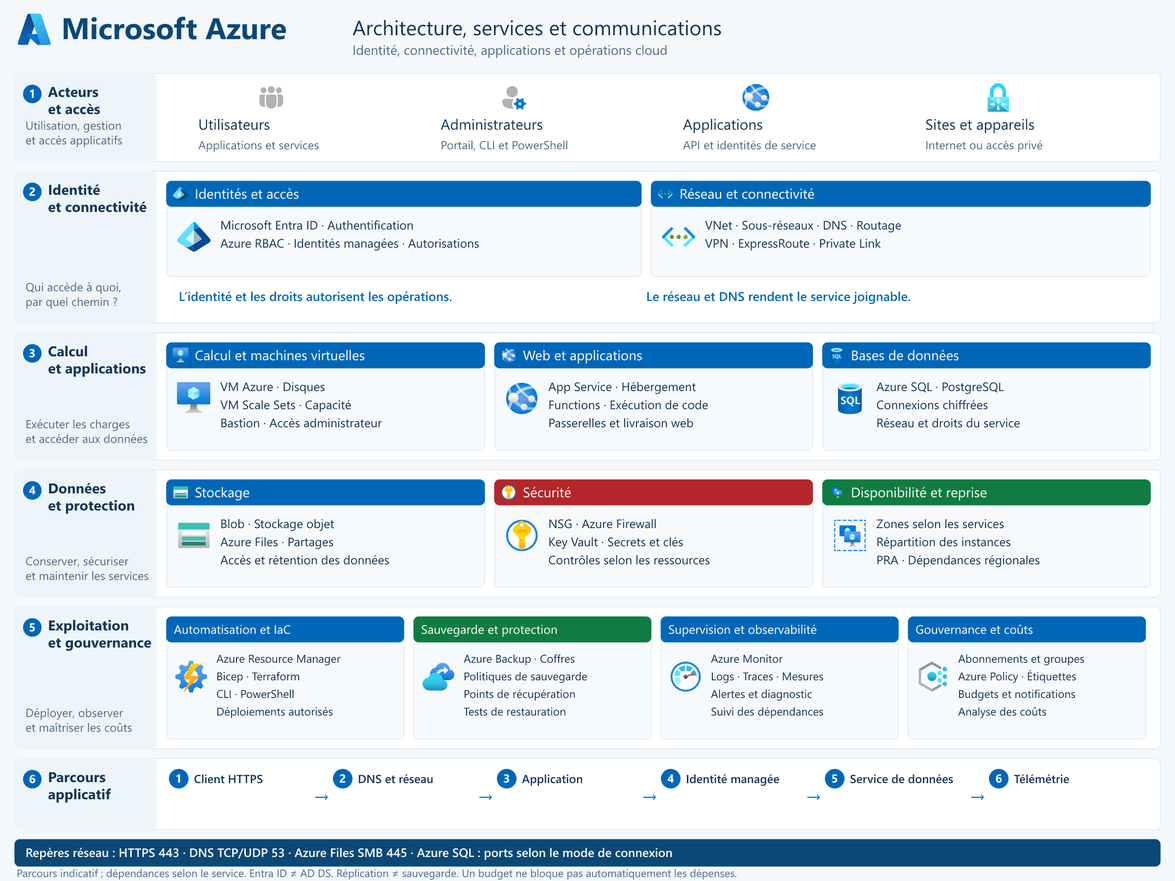
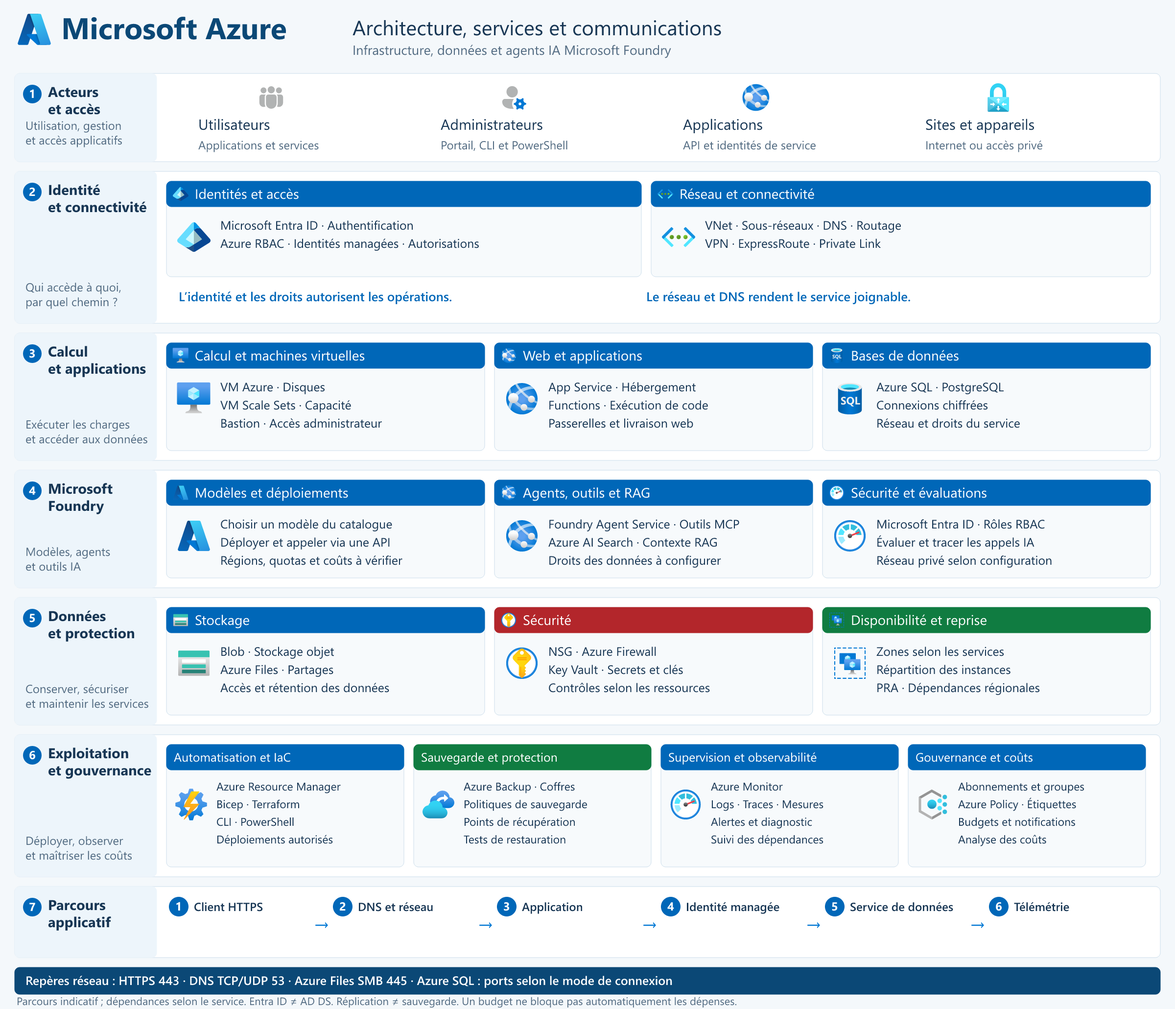
feat(azure): integrate Microsoft Foundry into guides and infographic

diff --git a/src/data/azure.js b/src/data/azure.js
@@ -114,7 +114,7 @@ const branches = [
       'Responsabilité : une recommandation ou une alerte nécessite une analyse et une action adaptée.',
     ],api),
   ]),
-  b('applications-cloud','Web & applications','web','App Service · Functions · Livraison','Publier des applications et choisir leur point d’entrée.', 'Un navigateur contacte Application Gateway en HTTPS ; la passerelle relaie la requête vers une application autorisée.',[
+  b('applications-cloud','Applications & IA','web','App Service · Functions · Foundry','Héberger des applications et construire des agents IA avec les services adaptés.', 'Une application appelle un agent Microsoft Foundry ; son identité et ses outils déterminent les données accessibles.',[
     t('Azure App Service','Plateforme d’hébergement web gérant une partie de l’infrastructure.',[
       'Déploiement : le code ou l’image est publié sur un environnement compatible.',
       'Configuration : paramètres, identité et secrets doivent être gérés séparément du code.',
@@ -135,8 +135,13 @@ const branches = [
       'Sonde : elle vérifie un état choisi pour déterminer les cibles utilisables.',
       'Distinction : le service ne route pas les URL et n’assure pas à lui seul une terminaison TLS.',
     ],[['TCP / UDP','Ports configurés par règle','Le port des sondes est aussi à définir selon le service.']]),
+    t('Microsoft Foundry','Plateforme Azure pour développer, déployer et gérer des applications et agents IA.',[
+      'Projet : il réunit les modèles déployés, agents et outils avec des accès définis par Microsoft Entra ID et RBAC.',
+      'Agent : le service managé associe un modèle, des instructions et des outils, dont des serveurs MCP autorisés.',
+      'Exploitation : évaluer la qualité, tracer les appels et suivre les coûts ; vérifier les régions et fonctionnalités en préversion.',
+    ],[['API de modèles et d’agents','HTTPS TCP 443','Endpoint du déploiement ou du projet ; identité, rôles et quotas restent nécessaires.'],['Outils et données','Selon le service cible','Les accès réseau et permissions des outils sont distincts de ceux du modèle ; le réseau privé dépend de la configuration.']]),
   ]),
-  b('donnees-cloud','Bases de données','storage','Azure SQL · PostgreSQL · Connexions','Accéder aux données en tenant compte du réseau et des identités.', 'Une application autorisée ouvre une connexion chiffrée à Azure SQL via le chemin réseau prévu.',[
+  b('donnees-cloud','Données & recherche','storage','SQL · PostgreSQL · Azure AI Search','Accéder aux données et rechercher du contenu avec les droits nécessaires.', 'Une application interroge Azure SQL ; un agent peut retrouver des extraits documentaires avec Azure AI Search.',[
     t('Azure SQL Database','Base relationnelle gérée dont les modalités de connexion sont configurables.',[
       'Service : l’application utilise le nom du serveur logique et une base accessible.',
       'Connexion : le mode Proxy ou Redirect change le chemin et les ports après le premier contact.',
@@ -157,6 +162,11 @@ const branches = [
       'Limites : la taille du pool doit correspondre à la charge et aux capacités de la base.',
       'Résilience : temporisation et tentatives doivent éviter les doublons d’opérations non idempotentes.',
     ],[['Transport du pilote','Selon moteur de base','Le pool est un mécanisme client sans port supplémentaire.']]),
+    t('Azure AI Search','Service de recherche qui peut fournir du contexte documentaire aux applications et agents Foundry.',[
+      'Recherche : des requêtes textuelles, vectorielles ou hybrides retrouvent du contenu pertinent dans les sources préparées.',
+      'RAG : les extraits récupérés complètent la demande au modèle ; cette récupération ne réentraîne pas le modèle.',
+      'Accès : l’indexation, les autorisations et la fraîcheur des données restent à configurer selon le scénario retenu.',
+    ],[['API de recherche et d’indexation','HTTPS TCP 443','Endpoint Azure AI Search autorisé ; les accès aux sources de données possèdent leurs propres exigences.']]),
   ]),
   b('disponibilite-cloud','Disponibilité & reprise','availability','Zones · Répartition · PRA','Prévoir les domaines de panne et les dépendances.', 'Une application possède plusieurs instances réparties sur des zones compatibles et un plan distinct de reprise régionale.',[
     t('Zones de disponibilité','Domaines d’infrastructure séparés dans les régions et services compatibles.',[
@@ -299,11 +309,14 @@ const edges = [
   f('costs','gouvernance-cloud','calcul','Encadrer le dimensionnement','Lien logique · budget et choix de capacité','Le suivi financier aide à décider ; un budget ne désalloue pas automatiquement les VM.','logical'),
   f('storage-rbac','identites','stockage-cloud','Autoriser l’accès aux données','Lien logique · rôle de données / jeton','Les permissions sont évaluées sur les requêtes de stockage ; l’attribution du rôle n’est pas un transfert de fichiers.','logical'),
   f('vault-identity','identites','securite-cloud','Autoriser les lectures de secrets','Lien logique · identité et permissions Key Vault','Un jeton valide doit être associé aux permissions nécessaires pour les objets ; il ne suffit pas de connaître l’URL du coffre.','logical'),
+  f('foundry-call','clients','applications-cloud','Appeler un agent Foundry','HTTPS · TCP 443','Une application authentifiée utilise l’endpoint du projet ou du déploiement Foundry ; le modèle, les rôles et les quotas doivent être configurés.'),
+  f('foundry-search','applications-cloud','donnees-cloud','Retrouver le contexte documentaire','API Azure AI Search · HTTPS TCP 443','L’application ou l’outil de l’agent interroge une recherche autorisée ; les résultats alimentent le contexte RAG, sans donner accès à toutes les données.'),
+  f('foundry-traces','applications-cloud','supervision-cloud','Observer les appels IA','Télémétrie · HTTPS TCP 443 selon intégration','Les traces et évaluations Foundry peuvent être corrélées avec Application Insights ; protéger les entrées et sorties sensibles collectées.'),
 ];
 
 export const azureEcosystem = createEcosystem({
   slug:'azure',title:'Azure',icon:'cloud',accent:'#0078d4',hubTitle:['Microsoft','Azure'],clientLabel:'Utilisateurs · Applications',
-  intro:'Du jeton d’identité aux données : explorez les échanges entre les services de votre environnement Azure.',
+  intro:'Du jeton d’identité aux applications et agents IA Microsoft Foundry : explorez les échanges entre les services Azure.',
   overview:'Douze domaines Azure : distinguez les flux de données, les appels de gestion et les dépendances logiques.',
   ringLabel:'IDENTITÉ · RÉSEAU · DONNÉES · GOUVERNANCE',subtitle:'LE SOCLE DE VOTRE ENVIRONNEMENT CLOUD',
   note:'Les capacités et chemins réseau dépendent des régions, des offres, des plans et des paramètres des ressources.',branches,edges,
@@ -313,6 +326,7 @@ export const azureEcosystem = createEcosystem({
     {id:'deployment',label:'Déployer une VM',description:'Accès au plan de gestion puis création des ressources autorisées.',edges:['login','deploy','vm-create','network-create','rbac','policy','nsg'],steps:[['login','Authentifier l’opérateur ou la chaîne de déploiement.'],['deploy','Envoyer la demande au plan de gestion ARM.'],['policy','Évaluer les règles applicables au déploiement.'],['network-create','Définir les ressources réseau nécessaires.'],['vm-create','Créer les ressources de calcul compatibles.']]},
     {id:'private',label:'Accès privé',description:'Exemples d’administration et d’accès aux données sur des chemins contrôlés.',independent:true,edges:['dns','bastion-entry','files','private-path','sql','nsg'],steps:[['dns','Vérifier que les noms résolvent vers le chemin voulu.'],['bastion-entry','Administrer la VM via Bastion si ce service est choisi.'],['files','Monter un partage compatible depuis une VM autorisée.'],['private-path','Prévoir les endpoints privés compatibles pour les données.']]},
     {id:'operations',label:'Exploitation & reprise',description:'Protection, collecte et disponibilité sont des fonctions complémentaires.',independent:true,edges:['zones','delivery','protect','backup-transfer','recovery','vm-metrics','app-traces','alert','costs'],steps:[['zones','Distribuer les instances selon les domaines de panne.'],['protect','Affecter une politique de protection adaptée.'],['backup-transfer','Conserver les données avec le mécanisme prévu.'],['vm-metrics','Envoyer les mesures des machines.'],['app-traces','Corréler les traces avec l’état des ressources.'],['alert','Déclencher une action seulement si elle est configurée.']]},
+    {id:'foundry',label:'Agent IA & Foundry',description:'Exemple de recherche documentaire : identité, appel Foundry, contexte RAG et télémétrie. Les permissions des outils restent distinctes.',edges:['app-login','foundry-call','foundry-search','foundry-traces'],steps:[['app-login','Obtenir un jeton pour la ressource et attribuer les rôles nécessaires.'],['foundry-call','Appeler le modèle ou l’agent configuré dans le projet Foundry.'],['foundry-search','Récupérer seulement les extraits documentaires autorisés.'],['foundry-traces','Mesurer qualité, latence et appels d’outils sans exposer de données sensibles.']]},
   ],
-  sources:referenceTuples(['nsg','bastion-ports','files-network','sql-network','keyvault-network','ama-network','appgateway']),
+  sources:referenceTuples(['nsg','bastion-ports','files-network','sql-network','keyvault-network','ama-network','appgateway','foundry','foundry-agents','foundry-network','ai-search']),
 });

diff --git a/src/data/content.js b/src/data/content.js
@@ -4,13 +4,20 @@ import { classicGuides } from './devopsClassic';
 export const categories = [
   { slug: 'windows-server', name: 'Windows Server', short: 'Windows', icon: 'server', color: 'green', description: 'Identités Active Directory, services réseau, stockage et administration de Windows Server.', topics: ['Active Directory', 'PowerShell', 'Réseau'] },
   { slug: 'virtualisation', name: 'Virtualisation', short: 'Virtualisation', icon: 'layers', color: 'purple', description: 'Hyper-V, VMware vSphere et Azure VMware Solution : hôtes, machines virtuelles, stockage et disponibilité.', topics: ['Hyper-V', 'VMware', 'Stockage'] },
-  { slug: 'azure', name: 'Azure', short: 'Azure', icon: 'cloud', color: 'blue', description: 'Calcul, réseau, stockage et gouvernance : comprenez les services Azure et leurs dépendances.', topics: ['Machines virtuelles', 'Réseau cloud', 'Gouvernance'] },
+  { slug: 'azure', name: 'Azure', short: 'Azure', icon: 'cloud', color: 'blue', description: 'Calcul, réseau, données et Microsoft Foundry : comprenez les services Azure, les agents IA et leurs dépendances.', topics: ['Machines virtuelles', 'Réseau cloud', 'Gouvernance', 'Intelligence artificielle'] },
   { slug: 'microsoft-365', name: 'Microsoft 365', short: 'Microsoft 365', icon: 'apps', color: 'blue', description: 'Administrez vos services de collaboration : identités, messagerie, fichiers, appareils et protection des données.', topics: ['Administration', 'Teams', 'Sécurité'] },
   { slug: 'devops', name: 'DevOps', short: 'DevOps', icon: 'terminal', color: 'blue', description: 'Git, CI/CD, tests, conteneurs, Kubernetes, infrastructure comme code, sécurité et observabilité : comprendre le chemin du code à la production.', topics: ['CI/CD', 'Infrastructure comme code', 'Conteneurs'] },
   { slug: 'devops-classique', name: 'DevOps classique', short: 'DevOps classique', icon: 'terminal', color: 'blue', description: 'Les pratiques DevOps indépendantes du cloud : collaboration, Git, CI/CD, Docker, Kubernetes, Terraform, Ansible et supervision sur Windows et Linux.', topics: ['CI/CD', 'Infrastructure comme code', 'Supervision'] },
 ];
 
 const sampleArticles = [
+  { slug: 'microsoft-foundry-agents-ia', category: 'azure', title: 'Microsoft Foundry : modèles, agents IA et données', excerpt: 'Le rôle de Foundry dans Azure : projets, modèles, outils MCP, recherche documentaire et contrôles avant la production.', topic: 'Intelligence artificielle', level: 'Fondamentaux', date: '2026-10-27', sections: [
+    ['Situer Foundry dans Azure', 'Microsoft Foundry réunit le développement et la gestion des modèles, des agents et de leurs outils. Le compte et le projet organisent les ressources et les accès. Le catalogue permet de choisir un modèle pris en charge ; un déploiement expose le modèle à une application. Foundry complète les services d’hébergement comme App Service : il ne remplace pas toutes les ressources de votre infrastructure.'],
+    ['Comprendre un agent et ses outils', 'Foundry Agent Service associe un modèle, des instructions et des outils. Un outil peut rechercher un document, appeler une fonction ou joindre un serveur MCP. L’identité, les autorisations et les chemins réseau doivent être prévus pour chaque outil. Pour une action métier sensible, définissez les validations humaines et les limites avant d’autoriser l’exécution.'],
+    ['Relier les réponses aux documents', 'Azure AI Search peut récupérer des extraits textuels ou vectoriels pour construire le contexte d’une réponse : c’est le principe du RAG, la génération augmentée par récupération. Foundry IQ s’appuie sur Azure AI Search pour les connaissances. Les documents doivent être préparés et leur accès contrôlé ; retrouver un extrait n’équivaut pas à réentraîner le modèle ni à garantir une réponse exacte.'],
+    ['Préparer identité, réseau et données', 'Distinguez les droits de l’opérateur qui déploie les ressources de ceux de l’identité utilisée par l’agent. La configuration choisie détermine où sont stockés fichiers, conversations et index. Les endpoints privés, le DNS et les accès sortants demandent une configuration compatible ; une entrée privée n’isole pas automatiquement tous les outils.'],
+    ['Évaluer avant de publier', 'Testez la pertinence, la sécurité et les appels d’outils sur des exemples représentatifs. Foundry fournit des traces, évaluations et fonctions de supervision, avec une intégration Application Insights. Maîtrisez les données sensibles conservées dans la télémétrie. Vérifiez les préversions, la disponibilité régionale, les quotas et la facturation propre aux services et modèles choisis ; un budget Azure n’est pas un arrêt automatique des dépenses.'],
+  ] },
   { slug: 'active-directory-fondations', category: 'windows-server', title: 'Active Directory : poser les bonnes fondations', excerpt: 'Domaine, DNS, unités d’organisation et rôles FSMO : les fondations d’un annuaire administrable.', topic: 'Active Directory', level: 'Fondamentaux', date: '2026-10-25', sections: [
     ['Penser la structure avant le déploiement', 'Un domaine Active Directory centralise les identités et les règles d’accès. Commencez par inventorier les utilisateurs, les postes et les applications. Choisissez un nom DNS cohérent avec votre organisation et documentez les responsabilités d’administration.'],
     ['Organiser les unités d’organisation', 'Regroupez les objets selon leurs besoins de gestion : postes, serveurs et comptes de service. Les unités d’organisation facilitent la délégation et l’application des stratégies de groupe. Évitez de reproduire chaque détail de l’organigramme si cela ne répond pas à un besoin de gestion.'],

diff --git a/src/AzureArchitecture.jsx b/src/AzureArchitecture.jsx
@@ -3,18 +3,19 @@ import SourceLinks from './SourceLinks';
 import './microsoft365-dependencies.css';
 
 export default function AzureArchitecture() {
-  const image = `${import.meta.env.BASE_URL}azure-architecture.svg?v=1`;
+  const image = `${import.meta.env.BASE_URL}azure-architecture.svg?v=2-foundry`;
   return <section id="azure-architecture" className="dependency-infographic supplied-infographic" aria-labelledby="azure-architecture-title">
-    <header><h2 id="azure-architecture-title">Azure : architecture et communications</h2><p>Identité, réseau, calcul, données et exploitation : les douze thèmes pour comprendre les dépendances d’une infrastructure Azure.</p></header>
-    <figure onClickCapture={event => { event.preventDefault(); event.stopPropagation(); }} onDoubleClickCapture={event => { event.preventDefault(); event.stopPropagation(); }}><img draggable={false} className="m365-architecture-image" src={image} width="2400" height="1800" alt="Architecture Azure : acteurs, Entra ID et RBAC, réseaux, machines virtuelles, App Service, Functions, bases de données, stockage, sécurité, disponibilité, automatisation, sauvegarde, supervision et gouvernance."/><figcaption>Texte vectoriel en Segoe UI, net au zoom. Le parcours est un exemple : les flux, ports et dépendances varient selon les services et leur configuration.</figcaption></figure>
+    <header><h2 id="azure-architecture-title">Azure : architecture et communications</h2><p>Identité, infrastructure, données et IA : Microsoft Foundry rejoint les services Azure pour comprendre les modèles, les agents et leurs dépendances.</p></header>
+    <figure onClickCapture={event => { event.preventDefault(); event.stopPropagation(); }} onDoubleClickCapture={event => { event.preventDefault(); event.stopPropagation(); }}><img draggable={false} className="m365-architecture-image" src={image} width="2400" height="2060" alt="Architecture Azure : identité, réseau, calcul, Microsoft Foundry avec modèles, agents, outils MCP, RAG et évaluations, bases de données, stockage, sécurité et exploitation."/><figcaption>Texte vectoriel en Segoe UI, net au zoom. Foundry, ses modèles et outils ont des permissions, coûts et disponibilités propres ; les flux dépendent de la configuration.</figcaption></figure>
     <details className="infographic-transcript"><summary>Lire le résumé de l’infographie</summary><ol>
       <li>Utilisateurs, administrateurs et applications accèdent aux ressources par les interfaces et chemins autorisés.</li>
       <li>Microsoft Entra ID gère les identités ; Azure RBAC encadre les opérations sur les ressources. Réseau et DNS assurent la connectivité.</li>
       <li>Les VM, App Service et Functions exécutent les charges ; les bases de données et le stockage conservent leurs données.</li>
+      <li>Microsoft Foundry réunit modèles, agents et outils. Azure AI Search peut fournir le contexte documentaire RAG ; Entra ID, les rôles, les évaluations et les traces encadrent l’usage.</li>
       <li>Les contrôles réseau, Key Vault et les mécanismes de disponibilité répondent à des besoins distincts.</li>
       <li>IaC, sauvegarde, supervision et gouvernance accompagnent l’exploitation. Un budget génère des notifications sans plafonner automatiquement les dépenses.</li>
       <li>Exemple : un client rejoint une application en HTTPS ; l’application utilise une identité managée pour accéder à un service compatible, et sa télémétrie alimente la supervision.</li>
     </ol></details>
-    <SourceLinks ids={['entra','vnet']}/>
+    <SourceLinks ids={['entra','vnet','foundry','foundry-agents','ai-search','foundry-observability']}/>
   </section>;
 }

diff --git a/src/data/auditReferences.js b/src/data/auditReferences.js
@@ -34,8 +34,8 @@ export const technologyReferences = {
     calcul: [['vm','vm-states'],['disks'],['bastion','bastion-ports'],['vmss']],
     'stockage-cloud': [['blob'],['files','files-network'],['storage-sas','storage-auth'],['blob-version']],
     'securite-cloud': [['nsg'],['az-firewall'],['keyvault','keyvault-network'],['defender-cloud']],
-    'applications-cloud': [['appservice'],['functions'],['appgateway','frontdoor'],['loadbalancer']],
-    'donnees-cloud': [['sql','sql-network'],['postgres','postgres-tls'],['sql-private'],['pooling']],
+    'applications-cloud': [['appservice'],['functions'],['appgateway','frontdoor'],['loadbalancer'],['foundry','foundry-agents','foundry-observability','foundry-network']],
+    'donnees-cloud': [['sql','sql-network'],['postgres','postgres-tls'],['sql-private'],['pooling'],['ai-search']],
     'disponibilite-cloud': [['zones'],['storage-redundancy'],['asr','asr-network'],['asr','failover-plans']],
     'automatisation-cloud': [['arm'],['bicep'],['terraform'],['arm','ps']],
     'sauvegarde-cloud': [['backup','backup-vm'],['backup'],['backup'],['backup-restore']],
@@ -57,6 +57,7 @@ export const flowReferences = {
     witness:['quorum'],backup:['hv-backup'],repository:['hv-backup'],replica:['hv-replica-config'],script:['ps'],api:['avs-run'],metrics:['perf','monitor'],logs:['wef'],'guest-metrics':['ama-network'],'cloud-api':['arc-network'],'network-path':['hv-network'],
   },
   azure: {
+    'foundry-call':['foundry','foundry-agents'],'foundry-search':['ai-search'],'foundry-traces':['foundry-observability'],
     login:['auth'],deploy:['arm'],'vm-create':['vm-create'],'network-create':['vnet'],rbac:['rbac'],policy:['policy'],dns:['private-dns','az-dns'],'web-front':['appgateway'],
     'web-backend':['appgateway'],'app-login':['auth','managed-identity'],secret:['keyvault-network'],sql:['sql-network','sql-private'],blob:['blob'],files:['files-network'],
     'bastion-entry':['bastion-ports'],'private-path':['private-endpoint','sql-private'],nsg:['nsg'],zones:['zones'],delivery:['loadbalancer','appgateway'],protect:['backup-vm'],
@@ -65,6 +66,7 @@ export const flowReferences = {
 };
 
 export const articleReferences = {
+  'microsoft-foundry-agents-ia':['foundry','foundry-agents','foundry-setup','foundry-network','foundry-observability','ai-search'],
   'comprendre-pipeline-ci-cd':['devops-ci','devops-cd','devops-agents','devops-monitor'],
   'infrastructure-comme-code':['devops-iac','devops-security'],
   'conteneurs-et-kubernetes':['devops-containers','devops-kubernetes','devops-security'],

diff --git a/src/data/learnSources.js b/src/data/learnSources.js
@@ -1,6 +1,12 @@
 // Références Microsoft Learn récupérées via le lecteur Jina de la procédure Agent Reach.
 // Traçabilité des captures : docs/learn-sources-audit.json.
 export const learnSources = {
+"foundry":{"url": "https://learn.microsoft.com/fr-fr/azure/foundry/what-is-foundry", "title": "Qu’est-ce que Microsoft Foundry ?"},
+"foundry-agents":{"url": "https://learn.microsoft.com/fr-fr/azure/foundry/agents/overview", "title": "Agents de Microsoft Foundry"},
+"foundry-setup":{"url": "https://learn.microsoft.com/fr-fr/azure/foundry/agents/environment-setup", "title": "Configurer un environnement Foundry"},
+"foundry-network":{"url": "https://learn.microsoft.com/fr-fr/azure/foundry/agents/how-to/virtual-networks", "title": "Configurer le réseau privé pour Foundry Agent Service"},
+"foundry-observability":{"url": "https://learn.microsoft.com/fr-fr/azure/foundry/concepts/observability", "title": "Observabilité dans Microsoft Foundry"},
+"ai-search":{"url": "https://learn.microsoft.com/fr-fr/azure/search/search-what-is-azure-search", "title": "Présentation d’Azure AI Search"},
 "devops-iac":{"url":"https://learn.microsoft.com/fr-fr/devops/deliver/what-is-infrastructure-as-code","title":"Qu’est-ce que l’infrastructure en tant que code (IaC) ? - Azure DevOps"},
 "devops-cd":{"url":"https://learn.microsoft.com/fr-fr/devops/deliver/what-is-continuous-delivery","title":"Qu’est-ce que la livraison continue ? - Azure DevOps"},
 "devops-artifacts":{"url":"https://learn.microsoft.com/fr-fr/azure/devops/artifacts/overview?view=azure-devops","title":"Qu’est-ce qu’Azure Artifacts ? - Azure Artifacts"},

diff --git a/src/data/communicationExchanges.js b/src/data/communicationExchanges.js
@@ -21,6 +21,16 @@ export const communicationExchanges = {
     ],
   },
   azure: {
+    'foundry-call': [
+      ['Application cliente','Microsoft Entra ID','HTTPS TCP 443 ; acquisition d’un jeton destiné à la ressource'],
+      ['Application authentifiée','Endpoint du projet ou déploiement Foundry','HTTPS TCP 443 ; rôle et quota requis'],
+    ],
+    'foundry-search': [
+      ['Application ou outil de l’agent','Azure AI Search','HTTPS TCP 443 ; recherche sur le contenu autorisé'],
+    ],
+    'foundry-traces': [
+      ['Application instrumentée ou service Foundry','Collecte de télémétrie Application Insights','HTTPS TCP 443 selon intégration ; filtrer les données sensibles'],
+    ],
     'bastion-entry': [
       ['Navigateur du client','Azure Bastion','HTTPS TCP 443 dans le scénario portail'],
       ['Azure Bastion','VM cible','RDP TCP 3389 ou SSH TCP 22 par défaut'],

diff --git a/src/seo.js b/src/seo.js
@@ -12,7 +12,7 @@ const categoryTitles = {
   'devops-classique':'DevOps classique : CI/CD, Docker, Terraform et Ansible',
   'windows-server':'Windows Server : Active Directory, FSMO et PowerShell',
   virtualisation:'Virtualisation : Hyper-V, VMware et machines virtuelles',
-  azure:'Azure : réseau, machines virtuelles et services cloud',
+  azure:'Azure : infrastructure, Microsoft Foundry et agents IA',
   'microsoft-365':'Microsoft 365 : identités, sécurité et collaboration',
 };
 const images = {'devops-classique':'devops-classique-architecture-hd.png','windows-server':'windows-server-architecture-hd.png',virtualisation:'virtualisation-architecture-hd.png',azure:'azure-architecture-hd.png','microsoft-365':'microsoft365-architecture-hd.png','adressage-reseau':'adressage-reseau-architecture-hd.png',devops:'devops-architecture-hd.png'};

diff --git a/src/data/technologyIcons.js b/src/data/technologyIcons.js
@@ -42,8 +42,8 @@ export const technologyIconKeys = {
     calcul:['vm','disk','bastion','vmss'],
     'stockage-cloud':['blob','files','permissions','snapshot'],
     'securite-cloud':['nsg','firewall','keyvault','defender'],
-    'applications-cloud':['appservice','functions','appgateway-frontdoor','loadbalancer'],
-    'donnees-cloud':['sql','postgres','private-endpoint','database-local'],
+    'applications-cloud':['appservice','functions','appgateway-frontdoor','loadbalancer','cpu'],
+    'donnees-cloud':['sql','postgres','private-endpoint','database-local','diagnostics'],
     'disponibilite-cloud':['zones','replication','recovery','schedule'],
     'automatisation-cloud':['resource-manager','bicep','terraform','powershell'],
     'sauvegarde-cloud':['backup','backup','archive','recovery'],

diff --git a/src/TechnologyInfographic.jsx b/src/TechnologyInfographic.jsx
@@ -34,7 +34,7 @@ export default function TechnologyInfographic({ ecosystem = windowsEcosystem }) 
         <div>
           
           <h2 id={titleId}>Les technologies par domaine</h2>
-          <p>12 domaines, 48 technologies : rôle, fonctionnement et points clés, avec un cas concret par branche.</p>
+          <p>{windowsBranches.length} domaines, {windowsBranches.reduce((count, branch) => count + branch.details.length, 0)} technologies : rôle, fonctionnement et points clés, avec un cas concret par branche.</p>
         </div>
         <button className="button secondary" onClick={toggleAll}>{expanded ? 'Réduire les détails' : 'Déployer les détails'}<ChevronDown size={16} aria-hidden="true"/></button>
       </div>

diff --git a/docs/MISE-A-JOUR-FOUNDRY-2026-10-27.md b/docs/MISE-A-JOUR-FOUNDRY-2026-10-27.md
@@ -1,0 +1,33 @@
+# Azure : intégration de Microsoft Foundry
+
+La page produit Microsoft fournie présente Foundry comme une plateforme d’applications et d’agents IA. L’ajout conserve la distinction entre hébergement applicatif, inférence des modèles, outils, recherche documentaire et infrastructure Azure.
+
+## Contenu ajouté
+
+- Infographie Azure SVG et PNG HD 2400 × 2060 : ligne Microsoft Foundry avec modèles, déploiements, agents, outils MCP, RAG, évaluations et contrôles d’accès.
+- Résumé accessible et texte alternatif de l’infographie actualisés ; URL de l’image versionnée pour éviter un ancien affichage en cache.
+- Deux fiches supplémentaires : Microsoft Foundry dans Applications & IA, Azure AI Search dans Données & recherche. Azure conserve 12 domaines et comporte désormais 50 technologies.
+- Relations documentées : appel d’un agent, récupération de contexte et télémétrie. Un scénario Foundry complète les données de communication.
+- Guide `/azure/microsoft-foundry-agents-ia/`, accessible dans la rubrique Azure, le catalogue et la recherche ; métadonnées et sitemap actualisés.
+- Permissions des outils, isolation réseau selon configuration, données sensibles dans les traces, préversions, régions, quotas et coûts distingués. Aucune promesse de gratuité ou de disponibilité universelle.
+
+## Sources primaires
+
+La page produit [Microsoft Foundry](https://azure.microsoft.com/fr-fr/products/ai-foundry) sert de point de départ. Les références techniques affichées sur le site restent Microsoft Learn en français :
+
+- [Présentation](https://learn.microsoft.com/fr-fr/azure/foundry/what-is-foundry)
+- [Foundry Agent Service](https://learn.microsoft.com/fr-fr/azure/foundry/agents/overview)
+- [Configuration de l’environnement](https://learn.microsoft.com/fr-fr/azure/foundry/agents/environment-setup)
+- [Réseau privé](https://learn.microsoft.com/fr-fr/azure/foundry/agents/how-to/virtual-networks)
+- [Observabilité](https://learn.microsoft.com/fr-fr/azure/foundry/concepts/observability)
+- [Azure AI Search](https://learn.microsoft.com/fr-fr/azure/search/search-what-is-azure-search)
+
+Ces six pages ont été récupérées par Agent Reach / Jina Reader. Les dates, tailles et SHA256 sont enregistrés dans `learn-sources-audit.json`. Les captures textuelles sont conservées dans le cache utilisateur Agent Reach.
+
+## Validation
+
+Contrôles du rendu serveur, des interactions DOM, des références et de l’intégrité des icônes Microsoft réussis. Les tests vérifient notamment que Foundry est trouvable dans le catalogue et que le guide présente Agent Service. Le SVG est comparé à son générateur, également contrôlé dans le workflow de publication.
+
+Le PNG a été régénéré avec Resvg 2.6.2, installé hors du projet, puis inspecté visuellement. Aucun débordement observé sur cette image. Le rendu responsive dans un vrai navigateur n’a pas été contrôlé : l’inventaire des navigateurs accessibles à l’outil était vide. Les tests DOM ne remplacent pas cette validation visuelle.
+
+La mise à jour ne déploie aucune ressource Azure et ne nécessite aucun abonnement ou accès aux données d’un tenant.

diff --git a/README.md b/README.md
@@ -2,6 +2,8 @@
 
 Site publié : **https://fullinfra.duckdns.org/**
 
+La rubrique Azure comprend Microsoft Foundry : modèles, agents, outils MCP, recherche documentaire RAG, accès et observabilité. Le guide `/azure/microsoft-foundry-agents-ia/` complète les fiches Foundry et Azure AI Search. Le schéma Azure et son image HD incluent une ligne dédiée ; `node scripts/generate-azure-architecture.mjs --check` vérifie que le SVG correspond à son générateur.
+
 ## Outils IA protégés
 
 La rubrique `/outils-ia/` fonctionne sur GitHub Pages avec un catalogue chiffré, déverrouillé dans le navigateur. Voir le [mode d’emploi et les limites de sécurité](docs/OUTILS-IA.md). Pour l’aperçu local : `npm start` puis ouvrir l’adresse affichée par Vite.
@@ -50,7 +52,7 @@ npm run preview
 
 `npm run check:ui` teste les interactions React dans un DOM isolé. `npm run check:sources` vérifie la traçabilité des références Microsoft Learn. Le [rapport d’audit](docs/AUDIT.md) détaille les corrections et les limites des vérifications.
 
-`npm run check:icons` contrôle les associations des 144 technologies et 36 branches ainsi que l’intégrité des SVG Microsoft.
+`npm run check:icons` contrôle les associations des 146 technologies et 36 branches ainsi que l’intégrité des SVG Microsoft.
 
 Le build de production se trouve dans `dist/`. Sur un hébergement statique, configurer la réécriture des routes inconnues vers `index.html` pour permettre le rechargement direct des pages React Router.
 
